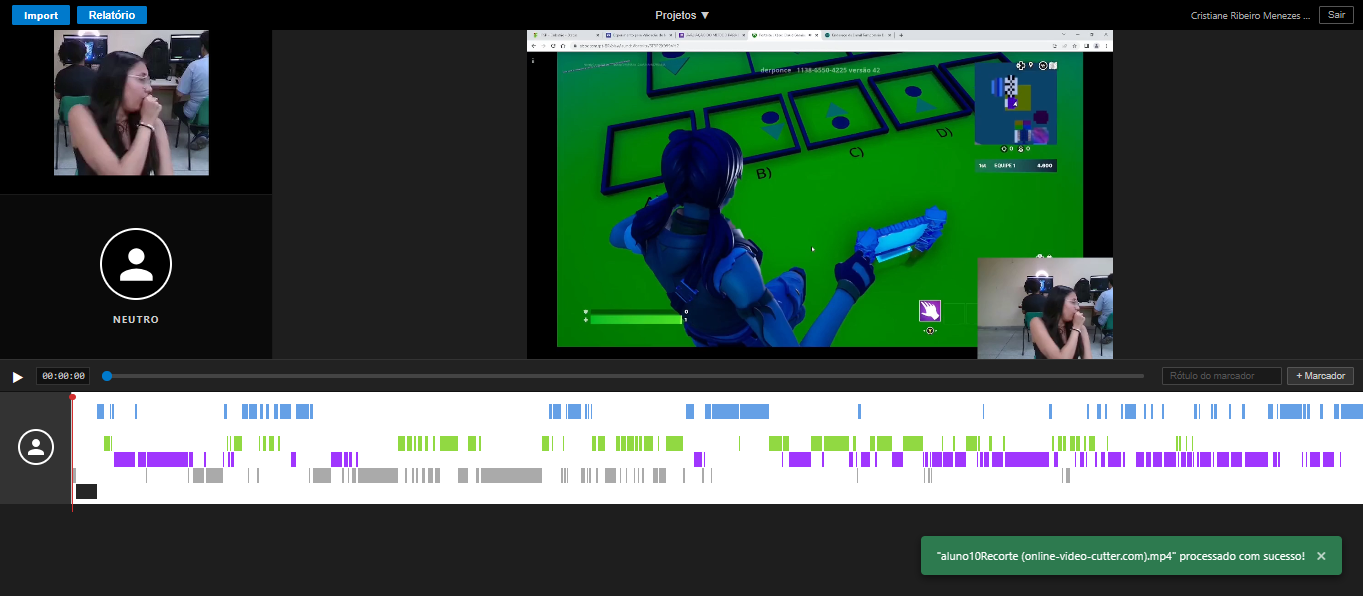
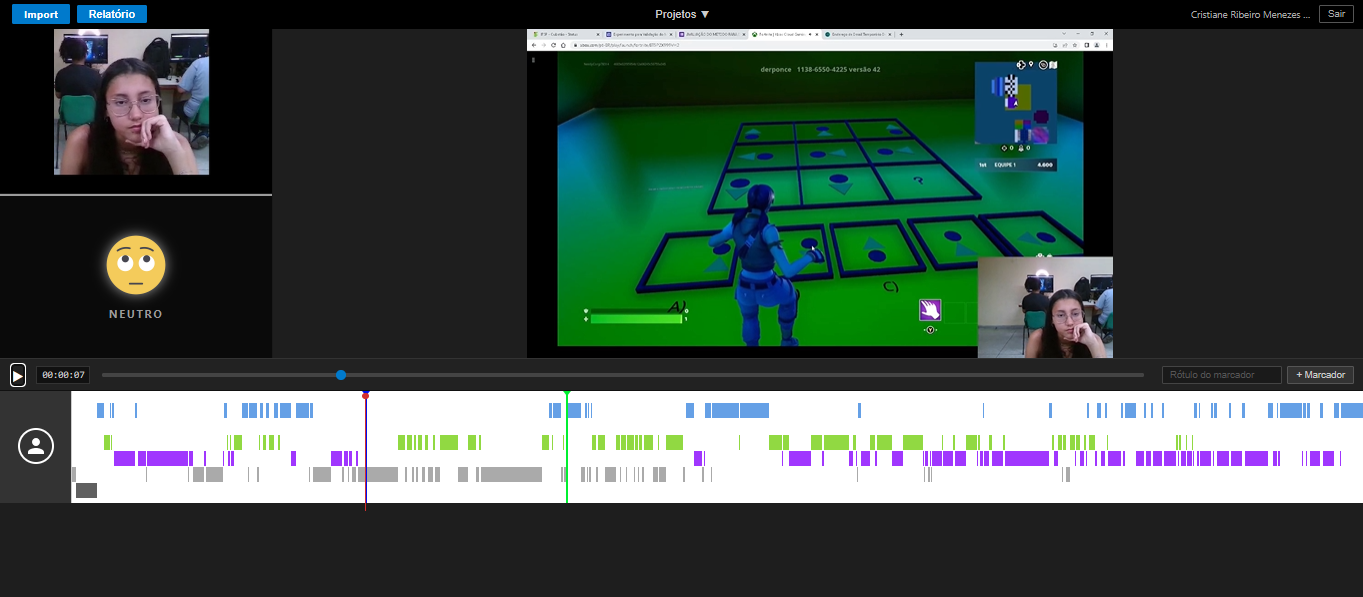
Feat: Insert emojis

diff --git a/front-end/app/src/components/EmotionDisplay.jsx b/front-end/app/src/components/EmotionDisplay.jsx
@@ -1,0 +1,44 @@
+import { memo } from 'react';
+import { EMOTIONS_CONFIG } from '../constants/emotions';
+
+// Coloque os arquivos PNG em: front-end/app/constans/images/emotions/
+// Nomes esperados: feliz.png, triste.png, surpreso.png, medo.png, neutro.png, indefinido.png
+import felizImg    from '../../constans/images/emotions/feliz.png';
+import tristeImg   from '../../constans/images/emotions/triste.png';
+import surpresoImg from '../../constans/images/emotions/surpreso.png';
+import medoImg     from '../../constans/images/emotions/medo.png';
+import neutroImg   from '../../constans/images/emotions/neutro.png';
+import indefinidoImg from '../../constans/images/emotions/indefinido.png';
+
+const EMOTION_IMAGES = {
+  Feliz:     felizImg,
+  Triste:    tristeImg,
+  Surpreso:  surpresoImg,
+  Medo:      medoImg,
+  Neutro:    neutroImg,
+  Indefinido: indefinidoImg,
+};
+
+const EMOTION_COLOR = Object.fromEntries(
+  EMOTIONS_CONFIG.map(e => [e.id, e.color])
+);
+
+const EmotionDisplay = memo(function EmotionDisplay({ emotion }) {
+  const img   = EMOTION_IMAGES[emotion];
+  const color = EMOTION_COLOR[emotion] ?? '#444444';
+
+  return (
+    <div className="emotion-display" style={{ '--emotion-color': color }}>
+      {img && (
+        <img
+          className="emotion-display-img"
+          src={img}
+          alt={emotion}
+        />
+      )}
+      <span className="emotion-display-label">{emotion}</span>
+    </div>
+  );
+});
+
+export default EmotionDisplay;

diff --git a/front-end/app/src/Editor.css b/front-end/app/src/Editor.css
@@ -103,19 +103,33 @@ html, body, #root {
 .cam-box { height: 50%; border-bottom: 2px solid #1a1a1a; background: #000;}
 .cam-box video { width: 100%; height: 100%; object-fit: contain; }
 
-.avatar-box { 
-  height: 50%; display: flex; flex-direction: column; 
-  justify-content: center; align-items: center; background: #0a0a0a; 
+.emotion-display {
+  height: 50%;
+  display: flex;
+  flex-direction: column;
+  justify-content: center;
+  align-items: center;
+  gap: 12px;
+  background: #0a0a0a;
+  border-top: 3px solid var(--emotion-color, #444);
+  transition: border-color 0.3s ease;
 }
-.avatar-circle { 
-  width: 90px; height: 90px; border: 3px solid white; 
-  border-radius: 50%; padding: 12px; display: flex; 
-  justify-content: center; align-items: center; background: #000;
+
+.emotion-display-img {
+  width: 80px;
+  height: 80px;
+  object-fit: contain;
+  filter: drop-shadow(0 0 8px var(--emotion-color, transparent));
+  transition: filter 0.3s ease;
 }
-.avatar-circle svg { width: 100%; height: 100%; }
-.emotion-label { 
-  margin-top: 15px; font-size: 13px; font-weight: bold; 
-  color: #ccc; text-transform: uppercase; letter-spacing: 1px;
+
+.emotion-display-label {
+  font-size: 14px;
+  font-weight: 700;
+  color: var(--emotion-color, #ccc);
+  text-transform: uppercase;
+  letter-spacing: 2px;
+  transition: color 0.3s ease;
 }
 
 /* Monitor Direito (Vídeo Principal) */

diff --git a/front-end/app/src/App.jsx b/front-end/app/src/App.jsx
@@ -6,6 +6,7 @@ import { videoService } from './services/videoService';
 import { useAuth } from './context/AuthContext';
 import ProtectedRoute from './components/ProtectedRoute';
 import LoginPage from './components/auth/LoginPage';
+import EmotionDisplay from './components/EmotionDisplay';
 
 const API_BASE = import.meta.env.VITE_API_BASE_URL || 'http://localhost:8000';
 
@@ -469,14 +470,7 @@ function VideoEditor() {
                 <div className="cam-box">
                   <video ref={faceVideoRef} src={videoData.processed_url} muted playsInline />
                 </div>
-                <div className="avatar-box">
-                  <div className="avatar-circle">
-                    <svg viewBox="0 0 24 24" fill="white">
-                      <path d="M12 12c2.21 0 4-1.79 4-4s-1.79-4-4-4-4 1.79-4 4 1.79 4 4 4zm0 2c-2.67 0-8 1.34-8 4v2h16v-2c0-2.66-5.33-4-8-4z"/>
-                    </svg>
-                  </div>
-                  <div className="emotion-label">{currentEmotionLabel}</div>
-                </div>
+                <EmotionDisplay emotion={currentEmotionLabel} />
               </aside>
 
               <article className="right-monitor">

diff --git a/front-end/app/src/constants/emotions.js b/front-end/app/src/constants/emotions.js
@@ -1,8 +1,8 @@
 export const EMOTIONS_CONFIG = [
-  { id: 'Triste', color: '#4a90e2' },     // Azul
-  { id: 'Surpreso', color: '#f5a623' },   // Amarelo
-  { id: 'Feliz', color: '#7ed321' },      // Verde
-  { id: 'Medo', color: '#9013fe' },       // Roxo
-  { id: 'Neutro', color: '#9b9b9b' },     // Cinza
-  { id: 'Indefinido', color: '#000000' }  // Preto
+  { id: 'Triste',    color: '#4a90e2', emoji: '😢' },
+  { id: 'Surpreso',  color: '#f5a623', emoji: '😲' },
+  { id: 'Feliz',     color: '#7ed321', emoji: '😄' },
+  { id: 'Medo',      color: '#9013fe', emoji: '😨' },
+  { id: 'Neutro',    color: '#9b9b9b', emoji: '😐' },
+  { id: 'Indefinido',color: '#444444', emoji: '🙃' },
 ];
